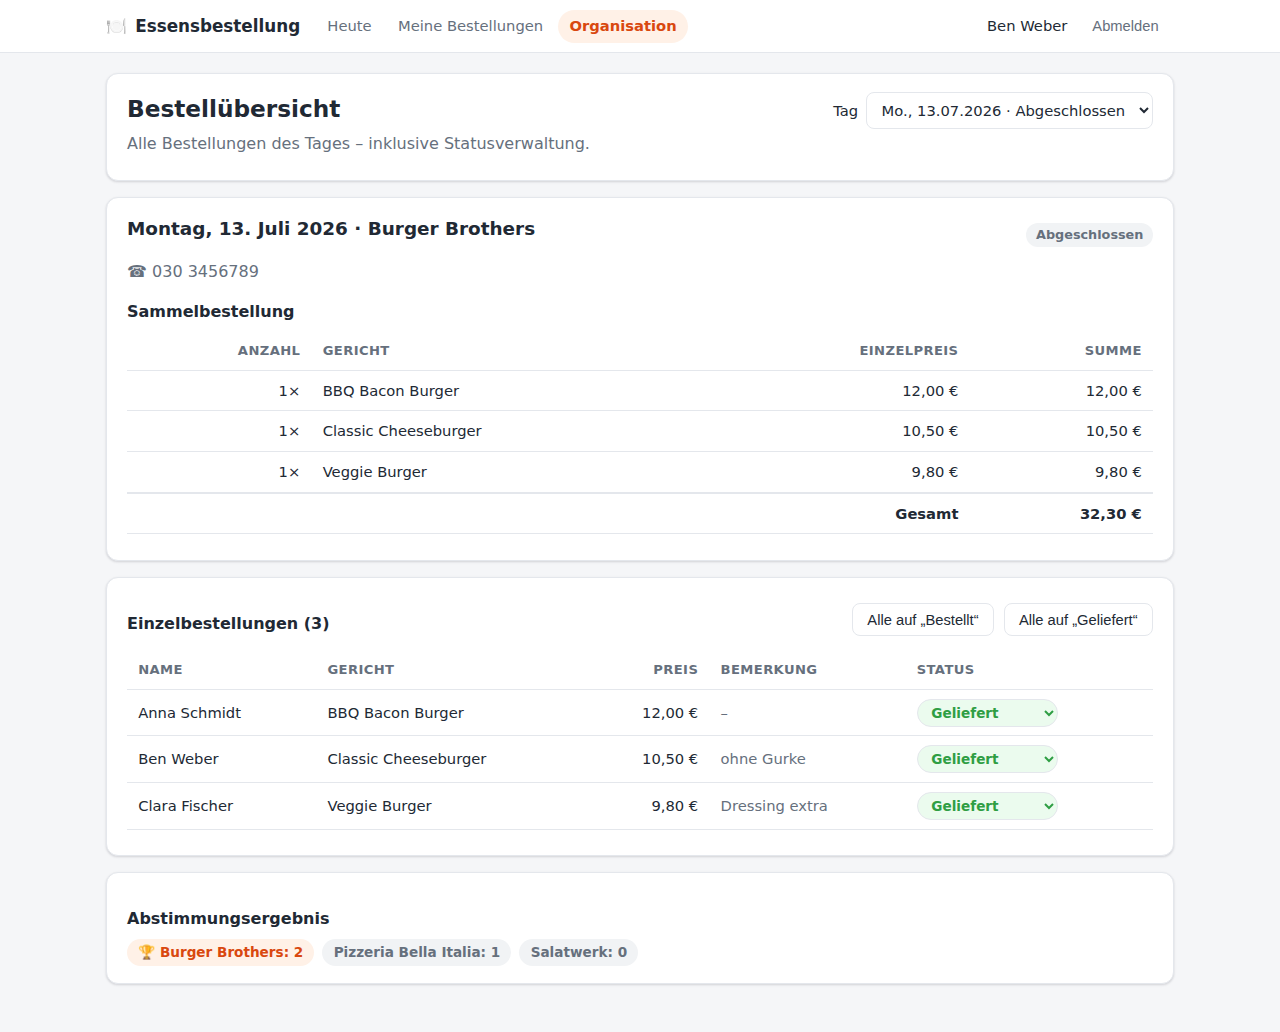
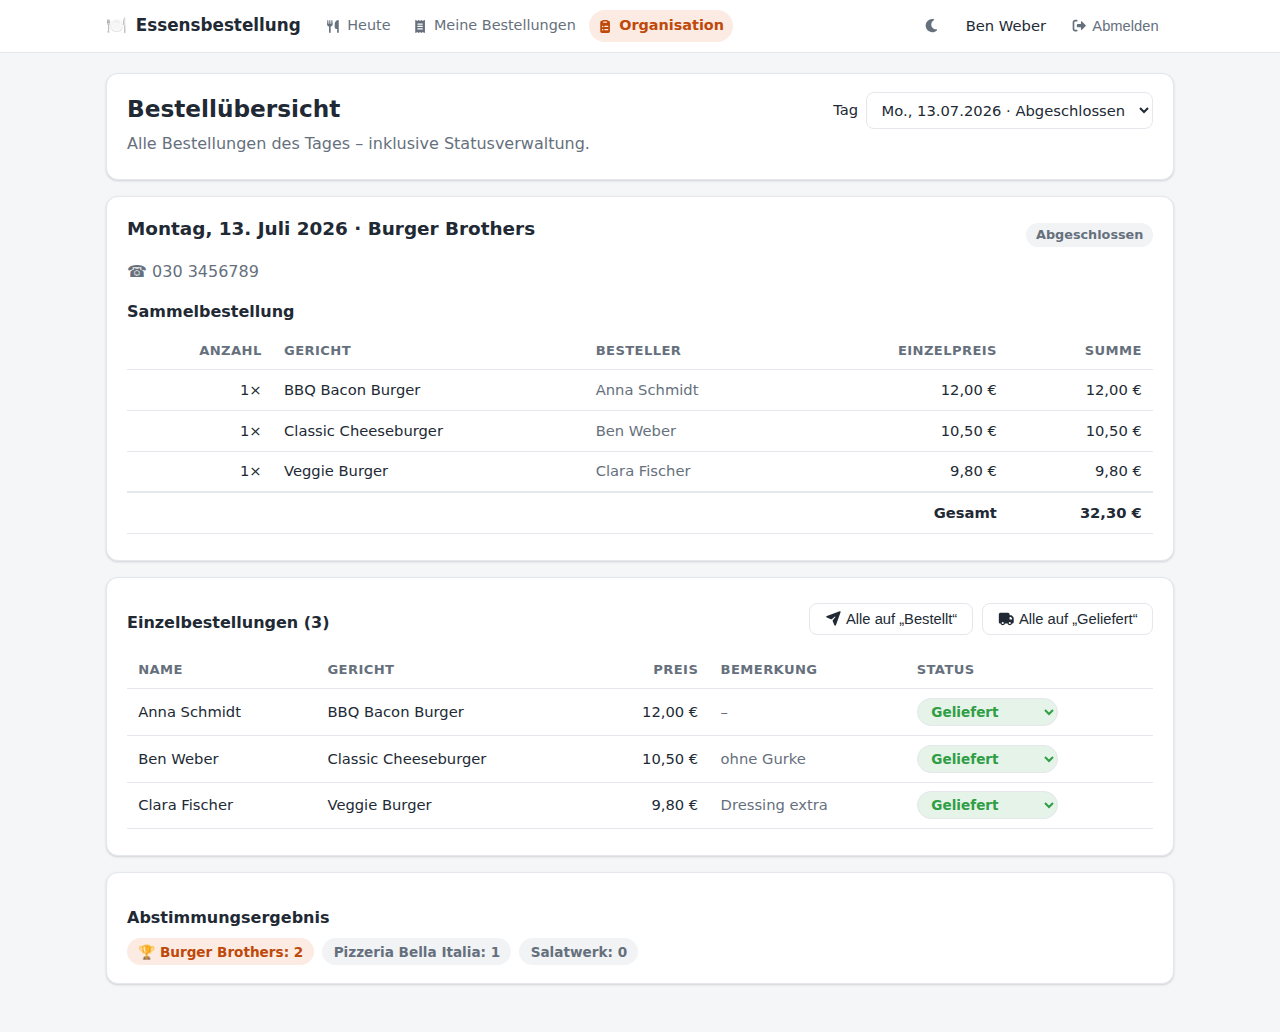
feat: Besteller pro Gericht in der Sammelbestellung anzeigen
- Die Sammelbestellung (Organisator-Ansicht und Tagesplanung-Details)
  zeigt je Gericht, welche Personen mitbestellt haben – als Liste in
  eigener Spalte, bei langen Listen abgekürzt mit vollem Text im Tooltip
- Stornierte Bestellungen werden nicht aufgeführt
- Sichtbarkeit unverändert auf Organisator des Tages und Administratoren
  beschränkt (gleicher Kreis, der die Tagesbestellungen ohnehin sieht)
- Tagesplanung-Detailansicht um die Sammelbestellung ergänzt

Claude-Session: https://claude.ai/code/session_01MXUwnNFXZvech2ikoosbSV

diff --git a/client/src/pages/OrganizerPage.jsx b/client/src/pages/OrganizerPage.jsx
@@ -150,6 +150,7 @@ export default function OrganizerPage() {
                     <tr>
                       <th className="num">Anzahl</th>
                       <th>Gericht</th>
+                      <th>Besteller</th>
                       <th className="num">Einzelpreis</th>
                       <th className="num">Summe</th>
                     </tr>
@@ -159,12 +160,15 @@ export default function OrganizerPage() {
                       <tr key={i}>
                         <td className="num">{s.count}×</td>
                         <td>{s.itemName}</td>
+                        <td className="orderers" title={(s.users || []).join(', ')}>
+                          {(s.users || []).join(', ')}
+                        </td>
                         <td className="num">{fmtPrice(s.priceCents)}</td>
                         <td className="num">{fmtPrice(s.totalCents)}</td>
                       </tr>
                     ))}
                     <tr className="total-row">
-                      <td className="num" colSpan={3}>
+                      <td className="num" colSpan={4}>
                         Gesamt
                       </td>
                       <td className="num">{fmtPrice(detail.totalCents)}</td>

diff --git a/client/src/pages/admin/DaysAdmin.jsx b/client/src/pages/admin/DaysAdmin.jsx
@@ -365,6 +365,35 @@ function DayDetail({ dayId }) {
           </span>
         ))}
       </div>
+      {detail.summary.length > 0 && (
+        <>
+          <h3>Sammelbestellung</h3>
+          <div className="table-scroll">
+            <table>
+              <thead>
+                <tr>
+                  <th className="num">Anzahl</th>
+                  <th>Gericht</th>
+                  <th>Besteller</th>
+                  <th className="num">Summe</th>
+                </tr>
+              </thead>
+              <tbody>
+                {detail.summary.map((s, i) => (
+                  <tr key={i}>
+                    <td className="num">{s.count}×</td>
+                    <td>{s.itemName}</td>
+                    <td className="orderers" title={(s.users || []).join(', ')}>
+                      {(s.users || []).join(', ')}
+                    </td>
+                    <td className="num">{fmtPrice(s.totalCents)}</td>
+                  </tr>
+                ))}
+              </tbody>
+            </table>
+          </div>
+        </>
+      )}
       <h3>
         Bestellungen ({detail.orders.length}) – Gesamt {fmtPrice(detail.totalCents)}
       </h3>

diff --git a/client/src/styles.css b/client/src/styles.css
@@ -442,6 +442,15 @@ td.actions .btn { margin-left: 0.3rem; }
 
 .total-row td { font-weight: 700; border-top: 2px solid var(--border); }
 
+/* Besteller-Spalte in der Sammelbestellung: lange Listen abkürzen, voller Text im Tooltip */
+td.orderers {
+  max-width: 260px;
+  overflow: hidden;
+  text-overflow: ellipsis;
+  white-space: nowrap;
+  color: var(--muted);
+}
+
 .row-cancelled td { opacity: 0.5; text-decoration: line-through; }
 .row-cancelled td:last-child { text-decoration: none; }
 

diff --git a/server/src/routes/days.js b/server/src/routes/days.js
@@ -228,8 +228,10 @@ daysRouter.get('/:id/full', (req, res) => {
       itemName: o.itemName || 'Unbekanntes Gericht',
       priceCents: o.priceCents,
       count: 0,
+      users: [],
     };
     entry.count += 1;
+    entry.users.push(o.userName);
     byItem.set(key, entry);
   }
   const summary = [...byItem.values()]
